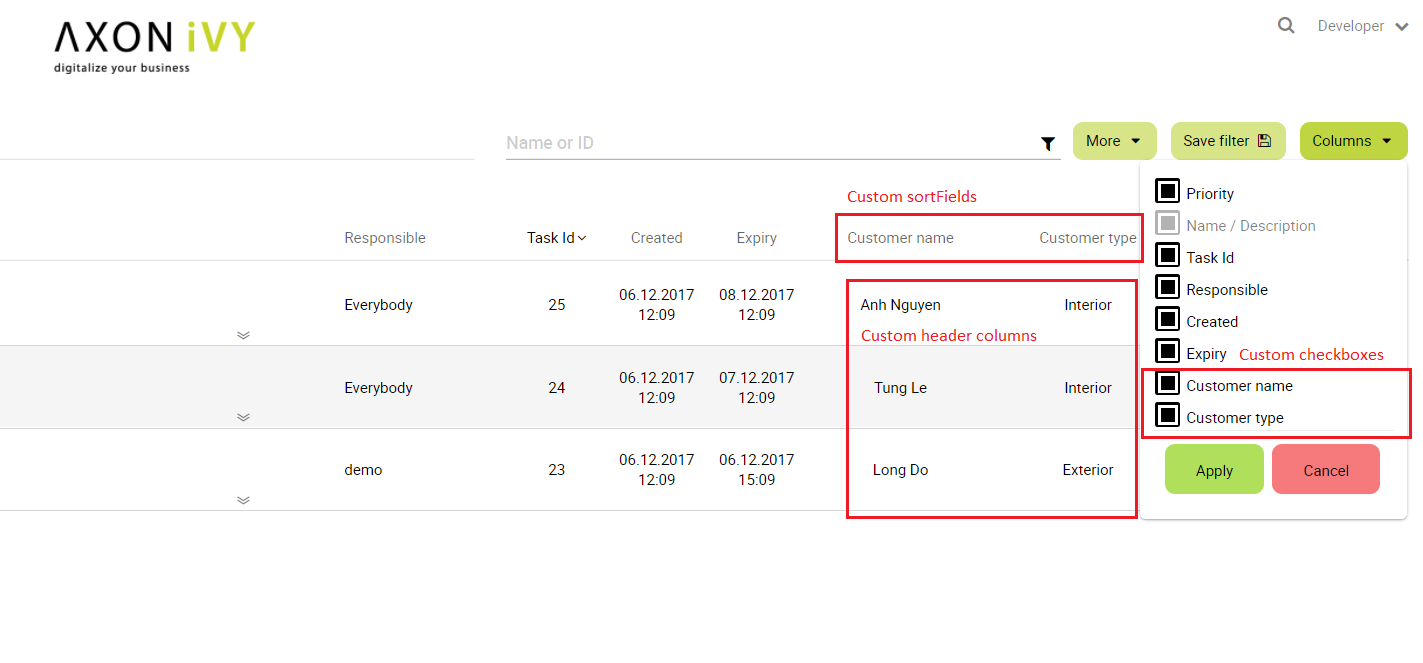
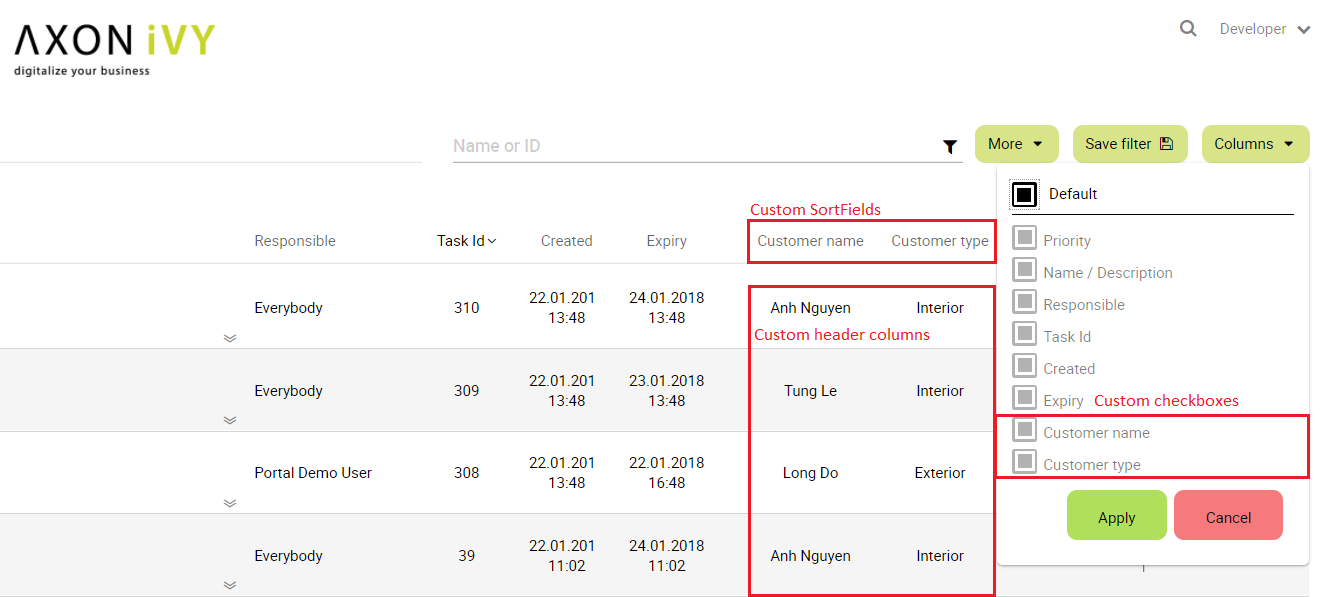
IVYPORTAL-4885: Configure own columns in task list III - UI + refactor
Former-commit-id: e304096703118c9a11f26a91ff582bca7273d12c

diff --git a/AxonIvyPortal/PortalKit/webContent/resources/css/module.css b/AxonIvyPortal/PortalKit/webContent/resources/css/module.css
@@ -4451,7 +4451,9 @@ margin-top
 }
 
 .config-checkbox-container {
-  text-align: center;
+  border-bottom: 1px solid black;
+  margin: 3px 2px;
+  padding-bottom: 2px;
 }
 
 .config-columns-panel.ui-overlay-hidden {

diff --git a/AxonIvyPortal/PortalKit/src/ch/ivy/addon/portalkit/datamodel/TaskLazyDataModel.java b/AxonIvyPortal/PortalKit/src/ch/ivy/addon/portalkit/datamodel/TaskLazyDataModel.java
@@ -656,7 +656,7 @@ public class TaskLazyDataModel extends LazyDataModel<RemoteTask> {
   
   
   protected void initColumnsConfiguration(){
-    allColumns.addAll(getPortalDefaultColumns());
+    allColumns.addAll(getDefaultColumns());
     initSelectedColumns();
   }
 
@@ -674,7 +674,7 @@ public class TaskLazyDataModel extends LazyDataModel<RemoteTask> {
       }
     }
     if(selectedColumns.isEmpty()){
-      selectedColumns.addAll(getPortalDefaultColumns());
+      selectedColumns.addAll(getDefaultColumns());
       isAutoHideColumns = true;
     }
     setDisableSelectionCheckboxes(isAutoHideColumns);
@@ -696,7 +696,7 @@ public class TaskLazyDataModel extends LazyDataModel<RemoteTask> {
    * 
    * @return
    */
-  protected List<String> getPortalDefaultColumns() {
+  protected List<String> getDefaultColumns() {
     return PORTAL_DEFAULT_COLUMNS;
   }
   
@@ -744,7 +744,7 @@ public class TaskLazyDataModel extends LazyDataModel<RemoteTask> {
   private void updateTaskColumnsConfigurationData(TaskColumnsConfigurationData taskColumnsConfigurationData) {
     taskColumnsConfigurationData.setAutoHideColumns(isAutoHideColumns);
     if(isAutoHideColumns){
-      taskColumnsConfigurationData.setSelectedColumns(getPortalDefaultColumns());
+      taskColumnsConfigurationData.setSelectedColumns(getDefaultColumns());
     } else {
       taskColumnsConfigurationData.setSelectedColumns(selectedColumns);
     }

diff --git a/Showcase/InternalSupport/src/ch/internalsupport/CustomizedTaskLazyDataModel.java b/Showcase/InternalSupport/src/ch/internalsupport/CustomizedTaskLazyDataModel.java
@@ -48,7 +48,7 @@ public class CustomizedTaskLazyDataModel extends TaskLazyDataModel {
   }
   
   @Override
-  protected List<String> getPortalDefaultColumns() {
+  protected List<String> getDefaultColumns() {
     return Arrays.asList("PRIORITY", "NAME", "ACTIVATOR", "ID", "CREATION_TIME", "EXPIRY_TIME", "customVarcharField5", "customVarcharField1");
   }
   
